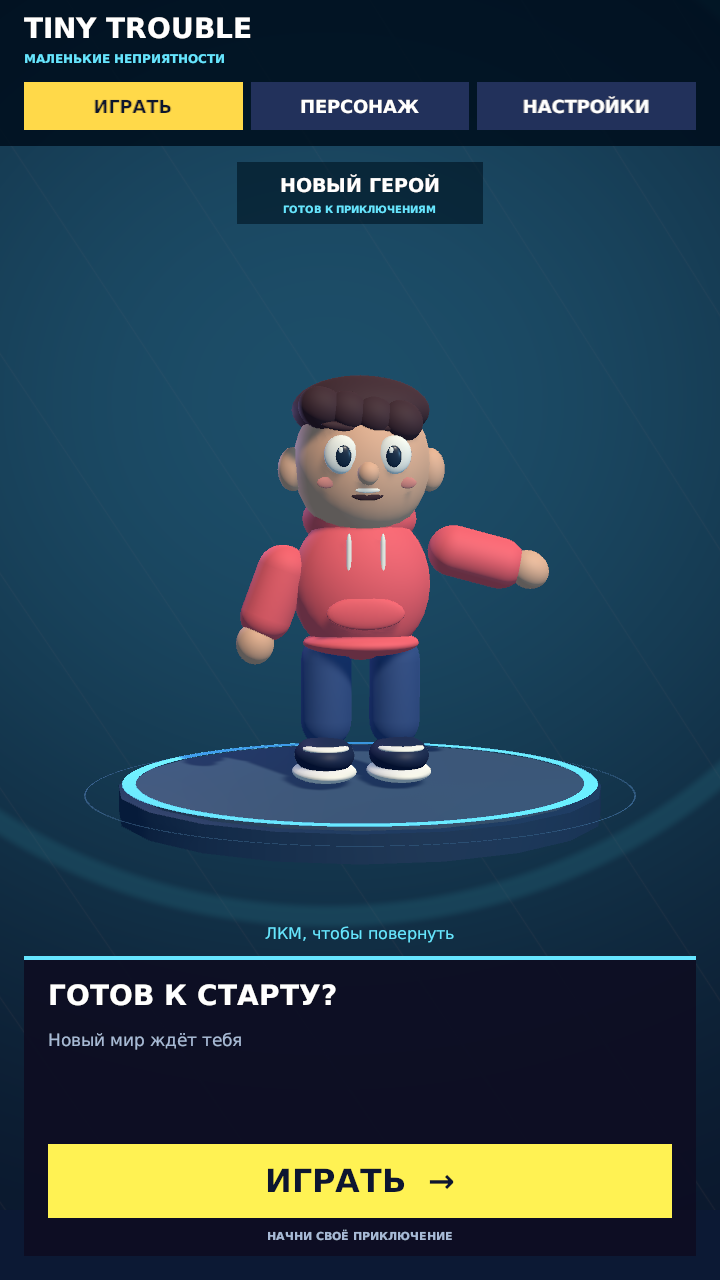
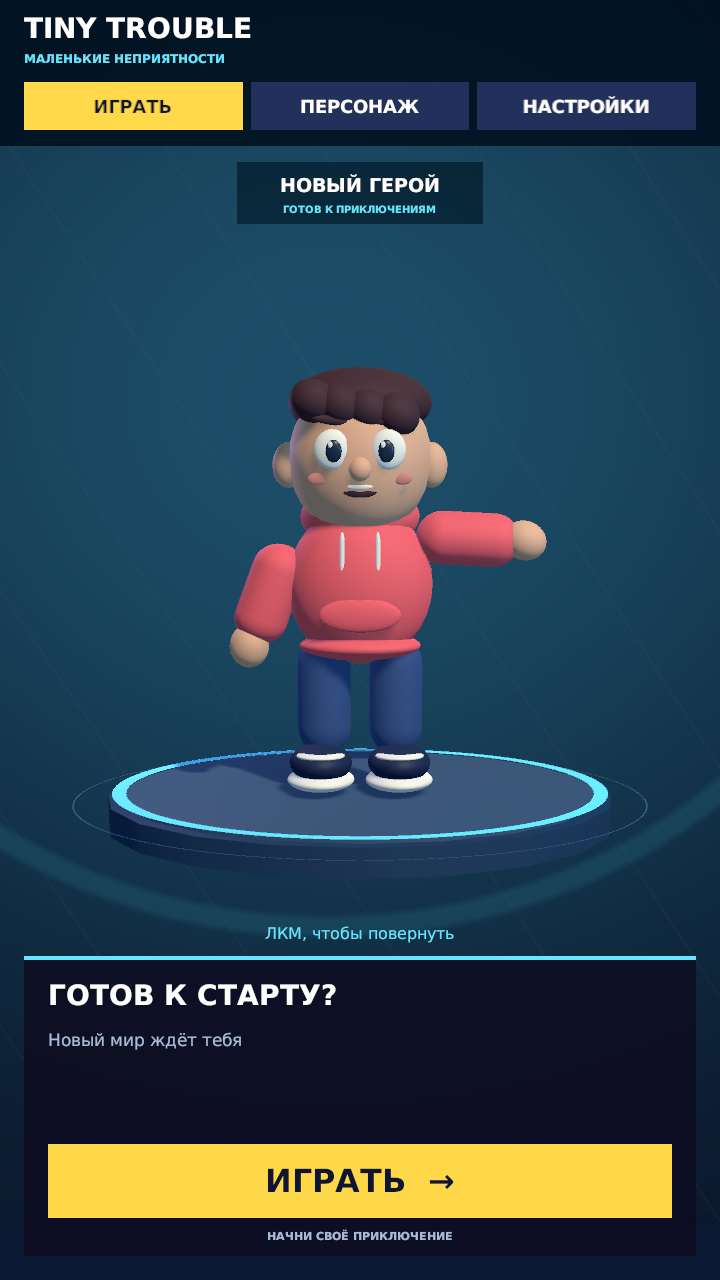
Исправить соединение плеча и усилить дыхание героя
Перенести точки поворота плеч с сохранением исходного вида модели. Увеличить подъём тела на вдохе до 0,024 и расширение до 3%, пересчитать область поз.

Добавить проверки соединения рукава и заметности дыхания, исправить очистку размеров окна в тестах. Обновить README, описание, план, отчёты и скриншоты.

Проверки в Unity: 21/21 в режиме редактора и 51/51 в режиме игры.

Changed region(s): [[0.0611, 0.875, 0.9472, 0.9688], [0.3056, 0.2812, 0.7639, 0.5312], [0.1222, 0.5625, 0.8556, 0.6562]]

diff --git a/Assets/TinyTrouble/Tests/PlayMode/CharacterGesturesTests.cs b/Assets/TinyTrouble/Tests/PlayMode/CharacterGesturesTests.cs
@@ -16,8 +16,24 @@ namespace TinyTrouble.Tests
             var before = upper.localPosition;
             var foot = Part("RightSole").position;
             Pose(gestures, "ApplyPose", "None", 0f, 0f, Mathf.PI * .5f);
-            Assert.That(upper.localPosition.y - before.y, Is.EqualTo(.012f).Within(.0001f));
+            Assert.That(upper.localPosition.y - before.y, Is.InRange(.02f, .03f), "Подъём должен быть заметным с камеры лобби");
             Assert.That(Vector3.Distance(Part("RightSole").position, foot), Is.LessThan(.0001f));
+        }
+
+        /// <summary>Вдох и выдох заметно меняют силуэт туловища, а сброс возвращает исходный вид.</summary>
+        [Test] public void BreathingChangesTorsoSilhouetteAndReturnsToRest()
+        {
+            var gestures = Required("CharacterGestures");
+            var body = Part("HoodieBody").GetComponent<Renderer>();
+            var rest = body.bounds.size;
+            Pose(gestures, "ApplyPose", "None", 0f, 0f, -Mathf.PI * .5f);
+            var exhale = body.bounds.size;
+            Pose(gestures, "ApplyPose", "None", 0f, 0f, Mathf.PI * .5f);
+            var inhale = body.bounds.size;
+            Assert.That((inhale.x - exhale.x) / rest.x, Is.GreaterThan(.04f), "Ширина туловища меняется слишком слабо");
+            Assert.That((inhale.z - exhale.z) / rest.z, Is.GreaterThan(.04f), "Дыхание сбоку тоже должно быть заметным");
+            gestures.GetType().GetMethod("ResetPose").Invoke(gestures, null);
+            Assert.That(Vector3.Distance(body.bounds.size, rest), Is.LessThan(.0001f));
         }
 
         /// <summary>Кисть остаётся связанной с рукавом при взмахе и после сброса.</summary>
@@ -36,6 +52,32 @@ namespace TinyTrouble.Tests
             Assert.That(sleeve.localPosition, Is.EqualTo(sleeveRelative));
             gestures.GetType().GetMethod("ResetPose").Invoke(gestures, null);
             Assert.That(Quaternion.Angle(rest, arm.localRotation), Is.LessThan(.01f));
+        }
+
+        /// <summary>Рукав остаётся немного внутри туловища во всех фазах взмаха, без щели у плеча.</summary>
+        /// <param name="gesture">Взмах при приветствии или случайном жесте.</param>
+        [TestCase("Wave")] [TestCase("Greeting")]
+        public void WavingSleeveStaysConnectedToTorso(string gesture)
+        {
+            var gestures = Required("CharacterGestures");
+            var sleeve = Part("HoodieRightSleeve");
+            var body = Part("HoodieBody");
+            var vertices = sleeve.GetComponent<MeshFilter>().sharedMesh.vertices;
+            for (var step = 0; step <= 100; step++)
+                foreach (var weight in new[] { .5f, 1f })
+                    foreach (var breath in new[] { -Mathf.PI * .5f, Mathf.PI * .5f })
+                    {
+                        Pose(gestures, "ApplyPose", gesture, step / 100f, weight, breath);
+                        var nearest = float.MaxValue;
+                        foreach (var vertex in vertices)
+                        {
+                            // Туловище — растянутая сфера: в его местных координатах радиус равен 0,5.
+                            var point = body.InverseTransformPoint(sleeve.TransformPoint(vertex));
+                            nearest = Mathf.Min(nearest, point.magnitude);
+                        }
+                        Assert.That(nearest, Is.LessThan(.48f),
+                            gesture + " фаза " + step / 100f + ": рукав не входит в туловище с небольшим запасом");
+                    }
         }
 
         /// <summary>Переминание приподнимает пятки по очереди, сохраняя точку носка.</summary>

diff --git a/Assets/TinyTrouble/Editor/CharacterRigBuilder.cs b/Assets/TinyTrouble/Editor/CharacterRigBuilder.cs
@@ -6,6 +6,9 @@ namespace TinyTrouble
     /// <summary>Подготавливает группы существующей модели, не пересоздавая сцену или детали.</summary>
     public static class CharacterRigBuilder
     {
+        /// <summary>Высота точки поворота плеча; меньшее число опускает её ниже.</summary>
+        const float ShoulderHeight = 1.50f;
+
         /// <summary>Создаёт недостающие группы, сохраняет внешний вид и подключает движения тела.</summary>
         /// <param name="hero">Существующая модель или открытый шаблон героя.</param>
         public static void Configure(GameObject hero)
@@ -13,8 +16,8 @@ namespace TinyTrouble
             var root = hero.transform;
             var upper = Pivot(root, root, "UpperBodyPivot", new Vector3(0, .95f, 0));
             var head = Pivot(root, upper, "HeadPivot", new Vector3(0, 1.72f, 0));
-            var leftArm = Pivot(root, upper, "LeftArmPivot", new Vector3(-.44f, 1.55f, 0));
-            var rightArm = Pivot(root, upper, "RightArmPivot", new Vector3(.44f, 1.55f, 0));
+            var leftArm = Pivot(root, upper, "LeftArmPivot", new Vector3(-.36f, ShoulderHeight, 0));
+            var rightArm = Pivot(root, upper, "RightArmPivot", new Vector3(.36f, ShoulderHeight, 0));
             var leftFoot = Pivot(root, root, "LeftFootPivot", new Vector3(-.25f, .07f, -.35f));
             var rightFoot = Pivot(root, root, "RightFootPivot", new Vector3(.25f, .07f, -.35f));
             // Сохранение мировой позы при смене родителя оставляет модель внешне прежней.
@@ -105,10 +108,18 @@ namespace TinyTrouble
         /// <param name="name">Сохраняемое имя группы.</param>
         /// <param name="position">Точка поворота в координатах корня.</param>
         /// <returns>Группа частей без изменения их внешнего вида.</returns>
+        /// <remarks>При переносе существующей точки сохраняет положение деталей, чтобы исходная модель не сдвигалась.</remarks>
         static Transform Pivot(Transform root, Transform parent, string name, Vector3 position)
         {
             var existing = root.GetComponentsInChildren<Transform>(true).FirstOrDefault(t => t.name == name);
-            if (existing) return existing;
+            if (existing)
+            {
+                // Переносим точку и компенсируем этот перенос у детей — частей руки или тела.
+                var offset = root.TransformPoint(position) - existing.position;
+                existing.position += offset;
+                foreach (Transform child in existing) child.position -= offset;
+                return existing;
+            }
             var pivot = new GameObject(name).transform;
             pivot.SetParent(root, false); pivot.localPosition = position;
             pivot.SetParent(parent, true);

diff --git a/Assets/TinyTrouble/Runtime/CharacterGestures.cs b/Assets/TinyTrouble/Runtime/CharacterGestures.cs
@@ -5,6 +5,10 @@ namespace TinyTrouble
     /// <summary>Двигает тело и конечности героя, сохраняя исходные положения связанных деталей.</summary>
     public sealed class CharacterGestures : MonoBehaviour
     {
+        /// <summary>Высота подъёма верхней части тела на вдохе; большее число делает дыхание заметнее.</summary>
+        const float BreathingLift = .024f;
+        /// <summary>Изменение ширины и глубины тела на вдохе: 0,03 означает три процента.</summary>
+        const float BreathingExpansion = .03f;
         /// <summary>Группа тела, головы и рук: дыхание перемещает её целиком.</summary>
         [SerializeField] Transform upperBody;
         /// <summary>Точки поворота рук у плеч.</summary>
@@ -80,8 +84,8 @@ namespace TinyTrouble
             var breath = Mathf.Sin(breathingPhase);
             if (upperBody)
             {
-                upperBody.localPosition = positions[0] + Vector3.up * (breath * .012f);
-                upperBody.localScale = Vector3.Scale(scales[0], new Vector3(1 + breath * .01f, 1, 1 + breath * .01f));
+                upperBody.localPosition = positions[0] + Vector3.up * (breath * BreathingLift);
+                upperBody.localScale = Vector3.Scale(scales[0], new Vector3(1 + breath * BreathingExpansion, 1, 1 + breath * BreathingExpansion));
             }
             if (gesture == CharacterGesture.WeightShift)
             {

diff --git a/Assets/TinyTrouble/Tests/PlayMode/LobbyLayoutTests.cs b/Assets/TinyTrouble/Tests/PlayMode/LobbyLayoutTests.cs
@@ -23,13 +23,15 @@ namespace TinyTrouble.Tests
         object sizeGroup;
         /// <summary>Исходный размер и количество встроенных вариантов Unity.</summary>
         int oldIndex, builtInCount;
-        /// <summary>Число добавленных размеров для удаления после проверки.</summary>
+        /// <summary>Число размеров, добавленных только текущей проверкой, для удаления после неё.</summary>
         int addedCount;
 
         /// <summary>Сохраняет размер окна и открывает сохранённую сцену лобби.</summary>
         /// <returns>Ожидание загрузки сцены.</returns>
         [UnitySetUp] public IEnumerator Setup()
         {
+            // Unity использует этот объект тестов повторно: счётчик каждого запуска начинается с нуля.
+            addedCount = 0;
             var assembly = typeof(Editor).Assembly;
             var gameViewType = assembly.GetType("UnityEditor.GameView");
             gameView = EditorWindow.GetWindow(gameViewType);

diff --git a/docs/superpowers/plans/2026-10-10-character-life.md b/docs/superpowers/plans/2026-10-10-character-life.md
@@ -108,7 +108,7 @@ Assert.That(warningsForMissingArm, Is.EqualTo(1));
 
   В UpperBody поместить голову с лицом, шею, одежду, шнурки и группы рук. HeadPivot содержит голову, волосы, уши и все детали лица; руку составляют рукав и кисть. Группы ступней содержат обувь и соответствующую штанину. Имена деталей не менять. Поиск по именам допустим при подготовке; в игре использовать сохранённые ссылки.
 
-  Дыхание: подъём до 0,012 и увеличение ширины/глубины UpperBody до 1%; период 3 секунды. Переминание: наклон UpperBody до 3 градусов и поочерёдный подъём пяток поворотом стоп до 6 градусов вокруг носка. Взмах правой рукой: подъём до 55 градусов с колебанием до 12 градусов. Greeting использует тот же взмах. Все смещения считаются от исходных поз, без накопления; плавная оболочка веса равна нулю в начале/конце жеста. Отсутствующие группы пропускаются, одна диагностика при настройке, не каждый кадр.
+  Дыхание: подъём до 0,024 и увеличение ширины/глубины UpperBody до 3%; период 3 секунды. После замечания пользователя усилены слишком слабые прежние значения 0,012 и 1%. Переминание: наклон UpperBody до 3 градусов и поочерёдный подъём пяток поворотом стоп до 6 градусов вокруг носка. Взмах правой рукой: подъём до 55 градусов с колебанием до 12 градусов. Greeting использует тот же взмах. Все смещения считаются от исходных поз, без накопления; плавная оболочка веса равна нулю в начале/конце жеста. Отсутствующие группы пропускаются, одна диагностика при настройке, не каждый кадр.
 
 - [x] **4. Обновить сохранённый prefab через PrefabUtility и только затронутые ссылки Lobby.** Включить Configure в MakeCharacter перед сохранением нового шаблона. Не вызывать Build. Проверить, что UI и материалы сцены не изменились. Область PoseBounds окончательно заполнит задача 4.
 - [x] **5. Повторить выбранные тесты до зелёного результата.** Исходная поза визуально совпадает, кисть следует за рукавом, подошва за обувью, сброс возвращает исходные значения.
@@ -247,6 +247,19 @@ Assert.That(poseBoundsAfterGesture, Is.EqualTo(poseBoundsBeforeGesture));
 - [x] **8. Коммит:** `git commit -m "Учесть жесты героя в раскладке и описании лобби"` — сохранённые ассеты, проверки, README, снимки и отчёт. Отправку на GitHub выполнять по просьбе пользователя; автоматически сейчас не отправлять.
 
 ## Самопроверка плана и передача
+
+После замечания о незаметном дыхании усилены подъём до 0,024 и расширение
+до 3%, период сохранён — 3 секунды. Пользователь самостоятельно изменил
+`BreathingLift`; правка проверена. Область поз пересчитана, добавлена проверка
+изменения силуэта и исправлен сброс счётчика временных размеров в тесте.
+Полные наборы: 21/21 EditMode и 51/51 PlayMode;
+подробности — в [отчёте дыхания](../reports/2026-10-10-breathing-validation.md).
+
+После первоначального завершения пользователь обнаружил зазор у плеча при взмахе.
+Исправлены точки поворота и перенос сохранённых групп без изменения исходного вида;
+добавлена проверка соединения рукава с туловищем. Пользователь изменил высоту
+плеча на 1.50f и проверил свою правку. Повторные полные наборы: 21/21 EditMode
+и 50/50 PlayMode. Подробности — в [отчёте исправления](../reports/2026-10-10-shoulder-validation.md).
 
 Проверено соответствие описанию: группы/позы — задача 1, глаза/голова — 2, приоритеты/меню/учебный шаг — 3, камера/13 размеров/документация — 4. Пять условий Review Focus имеют конкретные проверки. Сигнатуры между задачами согласованы; владение Transform не пересекается, корневой yaw остаётся у CharacterIdle.
 

diff --git a/docs/superpowers/reports/2026-10-10-shoulder-validation.md b/docs/superpowers/reports/2026-10-10-shoulder-validation.md
@@ -1,0 +1,63 @@
+# Исправление соединения плеча
+
+10 октября 2026 года, Unity Editor 2022.3.62f3, ветка `codex/character-life`.
+
+## Причина и изменение
+
+Снимок пользователя показал зазор между рукавом и туловищем при взмахе.
+Прежний тест проверял связь кисти с рукавом, но не рукава с телом.
+Точка поворота находилась слишком далеко наружу и вверх: `(±0,44; 1,55; 0)`.
+Измерение геометрии на временной копии подтвердило выход всего рукава
+за поверхность туловища в некоторых фазах, особенно около фазы 0,75.
+
+Точки обоих плеч перенесены в `(±0,36; 1,50; 0)`.
+При переносе существующей группы положения её дочерних деталей компенсируются:
+исходная поза не меняется, а движение происходит вокруг новой точки.
+Повторная подготовка обновляет сохранённые группы, а не только создаёт новые.
+Шаблон героя обновлён отдельно, область всех поз пересчитана;
+сцена Lobby не пересоздавалась. Кисть и её область нажатия следуют за рукавом.
+
+## Тесты
+
+| Проверка | Результат | ID Unity MCP |
+| --- | --- | --- |
+| Соединение плеча до исправления | 0/2, ожидаемые падения | `e3219729b96644c983407944cb140fef` |
+| Соединение плеча после исправления | 2/2 | `eda4df9a71244b3d87166a8c4c482a8b` |
+| Полный EditMode | **21/21**, без пропусков | `8153bb0f060c4832ac1e4f38d084775c` |
+| Полный PlayMode | **50/50**, без пропусков | `e464c9067ccb4477a4c37dea2f3624f1` |
+
+`WavingSleeveStaysConnectedToTorso` проверяет настоящую геометрию сохранённого
+героя для Wave и Greeting: 101 фаза, полная и половинная сила жеста,
+крайние значения дыхания. Вершины рукава должны входить внутрь туловища
+с небольшим запасом. В местных координатах растянутой сферы тела её радиус
+равен 0,5; тест требует ближайшую вершину рукава внутри радиуса 0,48.
+Это проверка соединения поверхностей, а не совпадения границ Renderer.
+
+Полные наборы также проверили сохранение исходного вида при повторной настройке,
+вращение за кисть, реакции и все жесты на 13 размерах во всех вкладках.
+
+## Визуальная проверка
+
+При остановленном на максимальном взмахе герое плечо осмотрено крупным планом
+спереди, сбоку и сзади. Рукав входит в туловище, сквозного зазора нет.
+Для проверки временно отключались интерфейс и раскладка, камера приближалась
+только в Play Mode; эти настройки не записывались в сцену.
+Обновлены снимки полного интерфейса 1920×1080 и 720×1280 в README.
+После осмотра возвращены интерфейс, обычная камера, размер Game View и живые
+движения героя. Временный размер удалён; настройка Test Runner восстановлена.
+В Console нет ошибок и предупреждений. XML-комментарии изменённых C#-файлов
+проверены по синтаксическому дереву; обычных комментариев вне тел методов нет.
+
+## Учебный шаг
+
+Пользователь самостоятельно исправил `ShoulderHeight` на `1.50f`.
+В первой попытке он указал величину уменьшения `0.05f` вместо новой высоты;
+после объяснения `1.55 − 0.05 = 1.50` поправил строку сам.
+Правка проверена в файле, использована при обновлении шаблона и прошла тесты.
+Группы плеч в сохранённом шаблоне теперь расположены на высоте 1,50 относительно корня.
+
+## Ограничения
+
+Проверки выполнены в редакторе Unity. Отдельная сборка и устройство
+в рамках этого исправления не проверялись. Модель состоит из простых отдельных
+форм; исправление сохраняет мультяшный вид, без скелета и Animator.

diff --git a/docs/superpowers/reports/2026-10-10-breathing-validation.md b/docs/superpowers/reports/2026-10-10-breathing-validation.md
@@ -1,0 +1,67 @@
+# Заметность дыхания героя
+
+10 октября 2026 года, Unity Editor 2022.3.62f3, ветка `codex/character-life`.
+
+## Причина
+
+Пользователь не видел дыхание с обычной камеры лобби. Наблюдение за работающим
+героем подтвердило, что цикл продолжается: полный ход верхней части тела
+составлял 0,024, а ширина и глубина менялись от 99% до 101% исходного размера.
+Движение было слишком слабым, хотя компонент работал.
+
+## Проверка до изменения
+
+Две проверки воспроизвели недостаточную заметность: подъём на вдохе был 0,012,
+а разница ширины туловища между вдохом и выдохом — около 1,96%.
+Проверки требуют подъём в пределах 0,02–0,03 и изменение ширины и глубины
+более 4%, а также неподвижные ступни и возврат исходного размера после сброса.
+Запуск `fba8e51c840c4d47b5c334b53d53645c`: 0/2, ожидаемые падения.
+
+Первый запуск не начал тесты из-за зависшей компиляции. Unity был сохранён
+и закрыт; новый экземпляр запущен после подтверждения завершения старого.
+Повторный запуск уже выполнил обе проверки.
+
+## Изменение
+
+Расширение тела увеличено до 3%, подъём на вдохе — до 0,024.
+Тот же плавный цикл длится 3 секунды. Верх тела, голова и руки движутся
+вместе; ступни остаются на платформе. Шаблон героя обновлён, область всех
+поз пересчитана, чтобы камера учитывала усиленное дыхание.
+
+## Проверки результата
+
+| Проверка | Результат | ID Unity MCP |
+| --- | --- | --- |
+| Дыхание и соединение плеча | 4/4 завершены, без ошибок | `e469e7aff8c24853aba1af8bcd1a77b0` |
+| Полный EditMode | **21/21**, без пропусков | `bc81be3070304f74a43329afea9f9ce9` |
+| Полный PlayMode | **51/51**, без пропусков | `5c36a168100b430c9aea8da83acaff0e` |
+
+Первый полный PlayMode завершился 50/51: проверка раскладки прошла свои
+проверки интерфейса, но её очистка выдала `Invalid index 6 7 0`.
+Unity повторно использует объект тестов; счётчик временных размеров не
+сбрасывался между запусками. Теперь `Setup` обнуляет счётчик, поэтому очистка
+удаляет только размеры текущей проверки. Повторный полный запуск прошёл.
+
+За 3,3 секунды в работающем лобби измерен полный ход верхней группы 0,04788
+и изменение размера от 0,97007 до 1,02993. С обычной камеры на 1920×1080
+осмотрены снимки максимального вдоха и выдоха, в том числе сбоку:
+толстовка расширяется и сужается, верх тела поднимается и опускается.
+Ступни сохраняют положение, интерфейс не перекрывает героя.
+Для наблюдения временно приостанавливались случайные жесты и покачивание;
+после осмотра обычное поведение восстановлено. Размер Game View возвращён,
+настройка Test Runner восстановлена; временных тестовых сцен не осталось.
+Console не содержит ошибок или предупреждений. XML-комментарии четырёх
+изменённых C#-файлов проверены по синтаксическому дереву, нарушений нет.
+
+## Учебный шаг
+
+Пользователь изменил `BreathingLift` в `CharacterGestures.cs` с `.012f`
+на `.024f`. После первой попытки сохранённый файл ещё содержал старое число;
+после пояснения `0,012 × 2 = 0,024` пользователь сохранил правильное значение.
+Файл перечитан, правка использована в обновлённом шаблоне и прошла проверки.
+
+## Ограничения
+
+Проверки выполнены в редакторе Unity; отдельная сборка и устройство не
+проверялись. Заметность движения оценена на обычной камере лобби, без
+добавления новой модели, скелета или Animator.

diff --git a/README.md b/README.md
@@ -93,11 +93,17 @@
 жест не повторяется подряд. Глаза и голова слегка следят за мышью, когда
 герой повёрнут к камере; при вращении слежение плавно прекращается.
 
+Вдох и выдох занимают 3 секунды: верх тела немного поднимается и опускается,
+а толстовка заметно расширяется и сужается. Движение продолжается при вращении;
+ступни остаются на платформе.
+
 При выборе нового цвета герой смотрит на толстовку и кивает; реакция занимает
 1,6 секунды. Повторный выбор того же цвета и восстановление настройки при
 запуске не вызывают кивка. Вращение мышью плавно прерывает крупные жесты,
 а дыхание и моргание продолжаются. При нескольких быстрых сменах цвета
 остаётся только последняя реакция. Нажатие на машущую руку также начинает вращение.
+Точки поворота плеч находятся внутри туловища: рукав сохраняет соединение
+с телом при взмахе и приветствии. Перенос точек не меняет исходный вид героя.
 
 При изменении размера окна меню перестраивается автоматически. На широком
 экране описание находится слева, а выбранная панель — справа. На вертикальном
@@ -222,8 +228,12 @@ Unity загружает зависимости по [Packages/manifest.json](Pa
   в `SampleScene` во время игры. Проверка раскладки временно добавляет размеры
   в Game View и после завершения возвращает исходный вариант.
 
-В [отчёте проверки живого героя](docs/superpowers/reports/2026-10-10-character-life-validation.md)
-зафиксированы результаты: **21/21 EditMode** и **48/48 PlayMode**. Проверка раскладки
+После усиления дыхания прошли **21/21 EditMode** и **51/51 PlayMode**;
+результаты записаны в [отчёте дыхания](docs/superpowers/reports/2026-10-10-breathing-validation.md).
+Проверка соединения плеча также проходит с новым дыханием; прежний запуск —
+в [отчёте исправления плеча](docs/superpowers/reports/2026-10-10-shoulder-validation.md).
+Предыдущий запуск сохранён в [отчёте живого героя](docs/superpowers/reports/2026-10-10-character-life-validation.md).
+Проверка раскладки
 охватывает все три вкладки на 13 размерах, четыре поворота героя и все крупные
 жесты в разных фазах. Результаты относятся к указанному запуску; после изменений
 кода проверки нужно повторять. Предыдущие результаты адаптивного лобби сохранены
@@ -243,7 +253,11 @@ Unity загружает зависимости по [Packages/manifest.json](Pa
   результаты тестов и известные ограничения на дату проверки.
 - [Проверка живого героя](docs/superpowers/reports/2026-10-10-character-life-validation.md) —
   движения, реакции, новые снимки и результаты итогового запуска тестов.
+- [Исправление плеча](docs/superpowers/reports/2026-10-10-shoulder-validation.md) —
+  устранение зазора при взмахе, новые проверки и учебная правка высоты плеча.
 - [AGENTS.md](AGENTS.md) — правила для помощника и работы с проектом.
+- [Заметность дыхания](docs/superpowers/reports/2026-10-10-breathing-validation.md) —
+  усиление движения тела, проверки и учебная правка высоты вдоха.
 
 Комментарии в C# пишутся по-русски. Перед объявлениями используются
 XML-комментарии документации (`/// <summary>` и другие подходящие теги).

diff --git a/docs/superpowers/specs/2026-10-10-character-life-design.md b/docs/superpowers/specs/2026-10-10-character-life-design.md
@@ -16,7 +16,9 @@
 
 ### Постоянные небольшие движения
 
-- Герой спокойно дышит: верхняя часть тела немного поднимается и расширяется.
+- Герой спокойно дышит: верхняя часть тела поднимается на 0,024 и расширяется
+  на 3% на вдохе, затем плавно опускается и сужается на те же величины на выдохе.
+  Полный цикл длится 3 секунды; движение должно читаться с обычной камеры лобби.
   Ступни остаются на платформе; движения одежды, рук и головы согласованы.
 - Оба глаза коротко моргают вместе. Между морганиями случайная пауза
   от 3 до 6 секунд, длительность одного моргания около 0,16 секунды.
@@ -111,6 +113,9 @@
 плеч и ступней. Группа — родительский объект, который двигает связанные
 детали вместе: например, волосы и лицо следуют за головой, рукав — за рукой.
 В исходной позе внешний вид и положение деталей сохраняются.
+Точки плеч расположены немного внутри туловища: рукав остаётся соединённым
+с ним во всех фазах взмаха и приветствия, включая дыхание и прерывание.
+Перенос существующей точки поворота сохраняет исходное положение её деталей.
 Имена деталей и разделение материалов одежды сохраняются; смена цвета
 по-прежнему действует только на толстовку.
 
@@ -137,6 +142,8 @@
   новых компонентов в шаблоне и Lobby.
 - PlayMode проверяет однократное приветствие, моргание с восстановлением
   глаз, согласованное движение деталей, все три жеста и реакции на цвет.
+  Отдельная проверка соединения рукава с туловищем охватывает 101 фазу
+  взмаха и приветствия, две силы жеста и крайние значения дыхания.
 - Проверяются повторный выбор того же цвета, быстрые смены цвета,
   вращение во время жеста, в том числе за вытянутую кисть, отпускание мыши и потеря фокуса.
 - Проверяется взгляд при движении указателя, ограничение смещения глаз,
